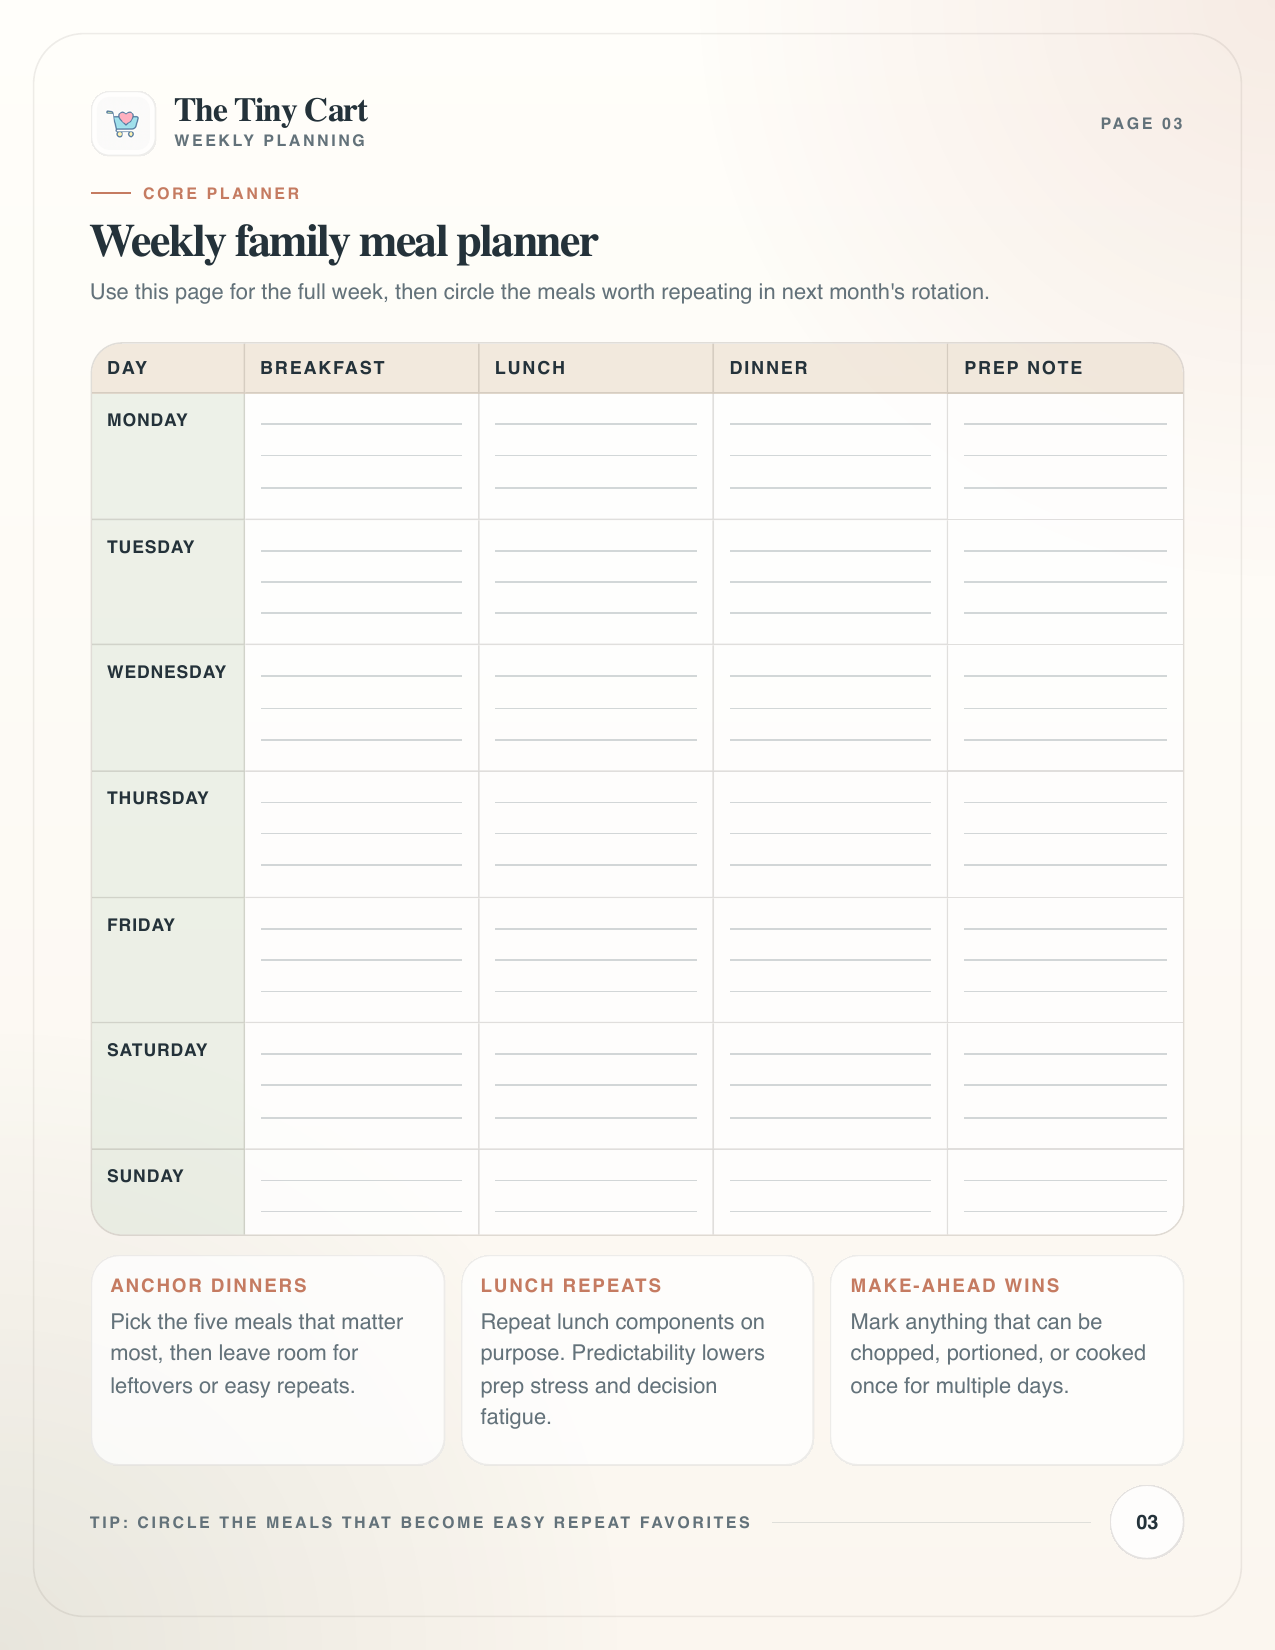
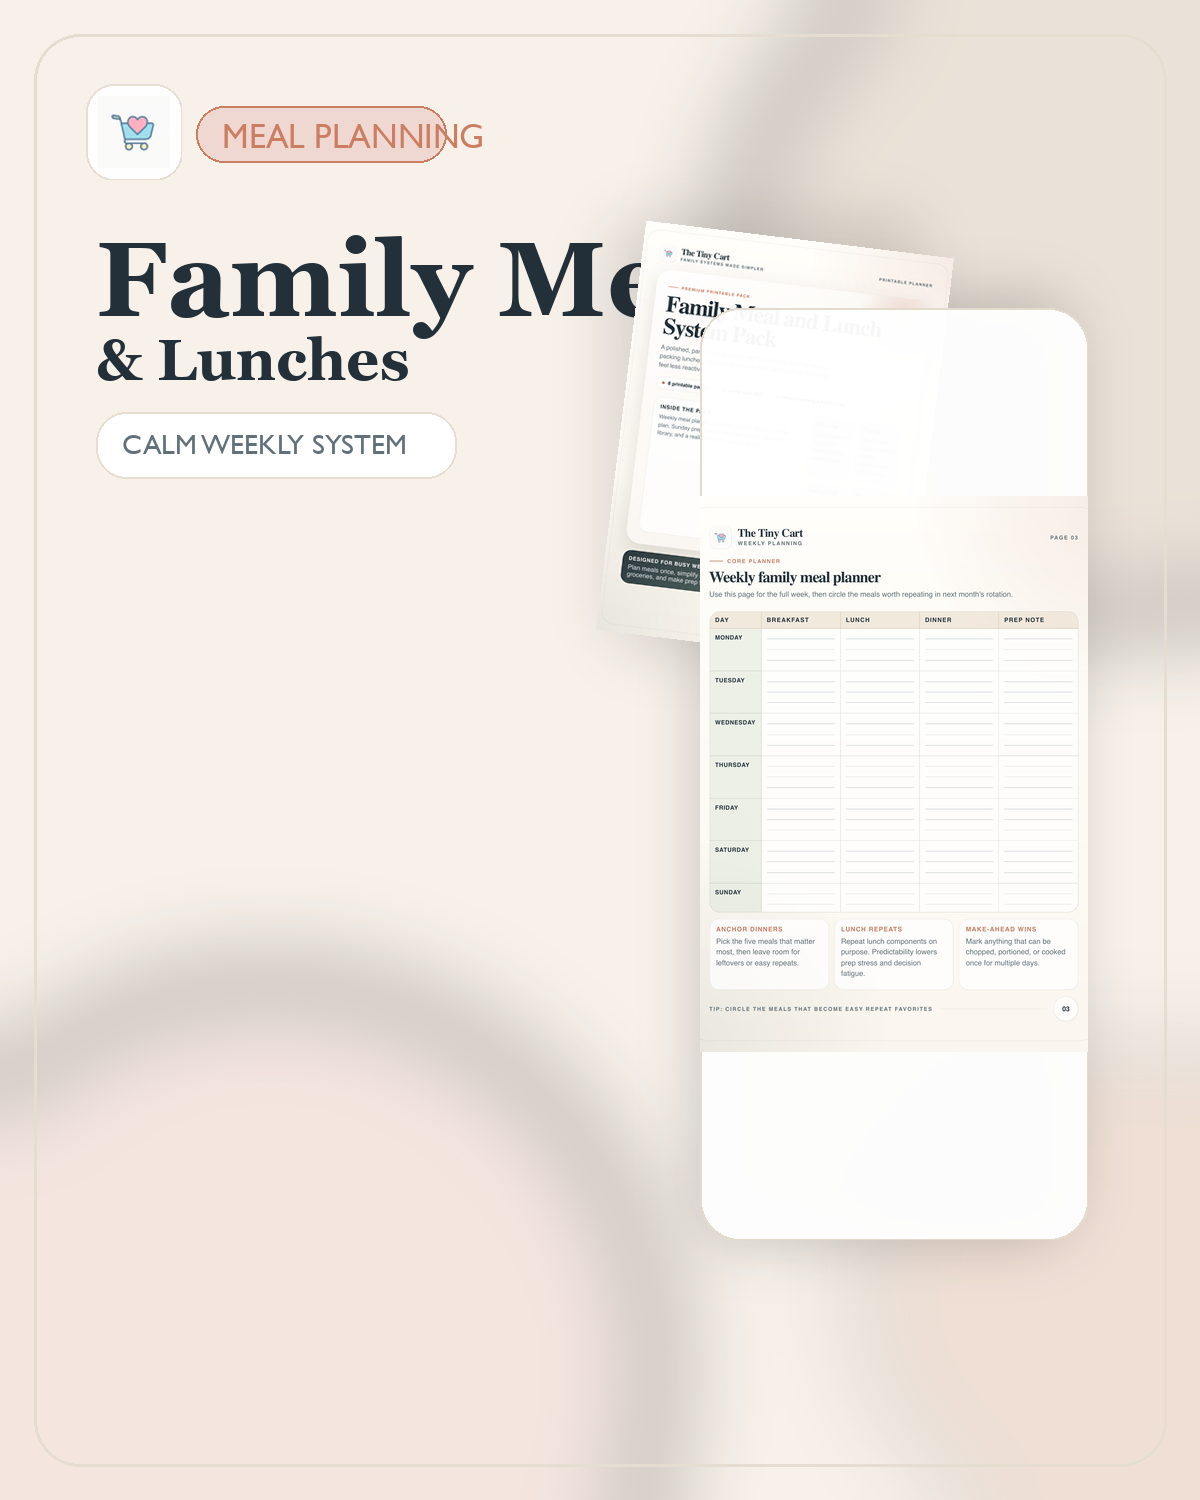
Redesign printable card thumbnails

diff --git a/scripts/build_printable_thumbnails.py b/scripts/build_printable_thumbnails.py
@@ -1,0 +1,192 @@
+#!/usr/bin/env python3
+
+from __future__ import annotations
+
+from pathlib import Path
+
+from PIL import Image, ImageDraw, ImageFilter, ImageFont, ImageOps
+
+
+ROOT = Path(__file__).resolve().parents[1]
+PRINTABLES = ROOT / "images" / "printables"
+LOGO = ROOT / "images" / "logo-small.png"
+FONT_SERIF = "/System/Library/Fonts/Supplemental/Georgia Bold.ttf"
+FONT_SANS = "/System/Library/Fonts/Supplemental/GillSans.ttc"
+SIZE = (1200, 1500)
+
+
+PRODUCTS = [
+    {
+        "slug": "family-meal-planner",
+        "category": "MEAL PLANNING",
+        "title": ["Family Meals", "& Lunches"],
+        "subtitle": "calm weekly system",
+        "accent": "#cb7e62",
+        "accent_soft": "#f0d8d2",
+        "glow": "#dccfc3",
+        "preview_main": "preview-weekly-planner.png",
+        "preview_back": "preview-overview.png",
+    },
+    {
+        "slug": "kids-routine-chart",
+        "category": "ROUTINES",
+        "title": ["Kids Routines", "& Responsibilities"],
+        "subtitle": "clearer daily flow",
+        "accent": "#71816d",
+        "accent_soft": "#dce5da",
+        "glow": "#d8ddd2",
+        "preview_main": "preview-morning-flow.png",
+        "preview_back": "preview-overview.png",
+    },
+    {
+        "slug": "playroom-organization-labels",
+        "category": "ORGANIZATION",
+        "title": ["Playroom Labels", "+ Rotation"],
+        "subtitle": "simpler cleanup",
+        "accent": "#c6a06a",
+        "accent_soft": "#efe0c8",
+        "glow": "#e5dbc8",
+        "preview_main": "preview-category-grid.png",
+        "preview_back": "preview-overview.png",
+    },
+    {
+        "slug": "lunchbox-notes",
+        "category": "LUNCHBOX NOTES",
+        "title": ["Lunchbox Notes", "+ Joke Cards"],
+        "subtitle": "warmer school lunches",
+        "accent": "#c77063",
+        "accent_soft": "#f4ddd8",
+        "glow": "#e6d7d0",
+        "preview_main": "preview-encouragement-notes.png",
+        "preview_back": "preview-overview.png",
+    },
+    {
+        "slug": "baby-registry-planner",
+        "category": "NEW BABY",
+        "title": ["Baby Registry", "+ First Week"],
+        "subtitle": "calmer priorities",
+        "accent": "#9a8c78",
+        "accent_soft": "#ede4da",
+        "glow": "#e6ddd3",
+        "preview_main": "preview-priorities.png",
+        "preview_back": "preview-overview.png",
+    },
+]
+
+
+def hex_to_rgba(value: str, alpha: int = 255) -> tuple[int, int, int, int]:
+    value = value.lstrip("#")
+    return tuple(int(value[i : i + 2], 16) for i in (0, 2, 4)) + (alpha,)
+
+
+def load_font(path: str, size: int) -> ImageFont.FreeTypeFont:
+    return ImageFont.truetype(path, size=size)
+
+
+def fit_preview(path: Path, size: tuple[int, int]) -> Image.Image:
+    image = Image.open(path).convert("RGBA")
+    return ImageOps.contain(image, size, Image.Resampling.LANCZOS)
+
+
+def add_shadow(base: Image.Image, rect: tuple[int, int, int, int], radius: int, opacity: int = 46) -> Image.Image:
+    shadow = Image.new("RGBA", base.size, (0, 0, 0, 0))
+    draw = ImageDraw.Draw(shadow)
+    draw.rounded_rectangle(rect, radius=radius, fill=(34, 30, 25, opacity))
+    shadow = shadow.filter(ImageFilter.GaussianBlur(28))
+    return Image.alpha_composite(base, shadow)
+
+
+def draw_preview_card(canvas: Image.Image, preview: Image.Image, box: tuple[int, int, int, int], radius: int, rotate: float = 0) -> None:
+    x0, y0, x1, y1 = box
+    card = Image.new("RGBA", (x1 - x0, y1 - y0), (0, 0, 0, 0))
+    draw = ImageDraw.Draw(card)
+    draw.rounded_rectangle((0, 0, card.width, card.height), radius=radius, fill=(255, 255, 255, 245), outline=(228, 219, 207, 255), width=2)
+
+    inner = Image.new("RGBA", (card.width, card.height), (0, 0, 0, 0))
+    px = (card.width - preview.width) // 2
+    py = (card.height - preview.height) // 2
+    inner.alpha_composite(preview, (px, py))
+    card = Image.alpha_composite(card, inner)
+
+    if rotate:
+        card = card.rotate(rotate, resample=Image.Resampling.BICUBIC, expand=True)
+    ox = x0 - (card.width - (x1 - x0)) // 2
+    oy = y0 - (card.height - (y1 - y0)) // 2
+    canvas.alpha_composite(card, (ox, oy))
+
+
+def build_thumb(config: dict[str, str]) -> None:
+    folder = PRINTABLES / config["slug"]
+    thumb_path = folder / "thumb.png"
+    main_preview = fit_preview(folder / config["preview_main"], (430, 560))
+    back_preview = fit_preview(folder / config["preview_back"], (320, 430))
+
+    canvas = Image.new("RGBA", SIZE, hex_to_rgba("#f7f1ea"))
+    glow = Image.new("RGBA", SIZE, (0, 0, 0, 0))
+    gdraw = ImageDraw.Draw(glow)
+    gdraw.ellipse((-120, 980, 660, 1760), fill=hex_to_rgba(config["accent_soft"], 120))
+    gdraw.ellipse((730, -80, 1460, 620), fill=hex_to_rgba(config["glow"], 120))
+    gdraw.ellipse((860, 1050, 1380, 1530), fill=hex_to_rgba(config["accent"], 40))
+    glow = glow.filter(ImageFilter.GaussianBlur(48))
+    canvas = Image.alpha_composite(canvas, glow)
+
+    frame = Image.new("RGBA", SIZE, (0, 0, 0, 0))
+    fdraw = ImageDraw.Draw(frame)
+    fdraw.rounded_rectangle((34, 34, SIZE[0] - 34, SIZE[1] - 34), radius=46, outline=(230, 221, 209, 255), width=3)
+    canvas = Image.alpha_composite(canvas, frame)
+
+    serif_big = load_font(FONT_SERIF, 106)
+    serif_small = load_font(FONT_SERIF, 58)
+    sans_label = load_font(FONT_SANS, 34)
+    sans_chip = load_font(FONT_SANS, 28)
+
+    draw = ImageDraw.Draw(canvas)
+
+    logo = Image.open(LOGO).convert("RGBA").resize((72, 72), Image.Resampling.LANCZOS)
+    logo_back = Image.new("RGBA", (96, 96), (0, 0, 0, 0))
+    ldraw = ImageDraw.Draw(logo_back)
+    ldraw.rounded_rectangle((0, 0, 96, 96), radius=28, fill=(255, 255, 255, 238), outline=(232, 223, 212, 255), width=2)
+    logo_back.alpha_composite(logo, ((96 - 72) // 2, (96 - 72) // 2))
+    canvas.alpha_composite(logo_back, (86, 84))
+
+    chip_w = 250
+    chip_h = 56
+    chip_x = 196
+    chip_y = 106
+    draw.rounded_rectangle((chip_x, chip_y, chip_x + chip_w, chip_y + chip_h), radius=28, fill=hex_to_rgba(config["accent_soft"]), outline=hex_to_rgba(config["accent"], 45), width=2)
+    draw.text((chip_x + 26, chip_y + 10), config["category"], fill=hex_to_rgba(config["accent"]), font=sans_label)
+
+    y = 218
+    for idx, line in enumerate(config["title"]):
+        font = serif_big if idx == 0 else serif_small
+        draw.text((96, y), line, fill=hex_to_rgba("#233039"), font=font)
+        y += 108 if idx == 0 else 78
+
+    sub_w = 360
+    sub_h = 66
+    draw.rounded_rectangle((96, y + 8, 96 + sub_w, y + 8 + sub_h), radius=30, fill=(255, 255, 255, 220), outline=(231, 221, 209, 255), width=2)
+    draw.text((122, y + 24), config["subtitle"].upper(), fill=hex_to_rgba("#62707a"), font=sans_chip)
+
+    card_area = (630, 208, 1090, 1248)
+    canvas = add_shadow(canvas, (700, 300, 1070, 1240), radius=40, opacity=55)
+    canvas = add_shadow(canvas, (610, 218, 920, 650), radius=36, opacity=35)
+    draw_preview_card(canvas, back_preview, (620, 238, 930, 650), radius=34, rotate=-7)
+    draw_preview_card(canvas, main_preview, (700, 308, 1088, 1240), radius=40)
+
+    footer_y = 1328
+    footer_w = 318
+    footer_h = 74
+    draw.rounded_rectangle((96, footer_y, 96 + footer_w, footer_y + footer_h), radius=34, fill=hex_to_rgba(config["accent"]), outline=None)
+    draw.text((126, footer_y + 20), "8 PAGES  •  DIGITAL PDF", fill=(255, 255, 255, 245), font=sans_chip)
+
+    thumb_path.parent.mkdir(parents=True, exist_ok=True)
+    canvas.convert("RGB").save(thumb_path, quality=95)
+
+
+def main() -> None:
+    for product in PRODUCTS:
+        build_thumb(product)
+
+
+if __name__ == "__main__":
+    main()
